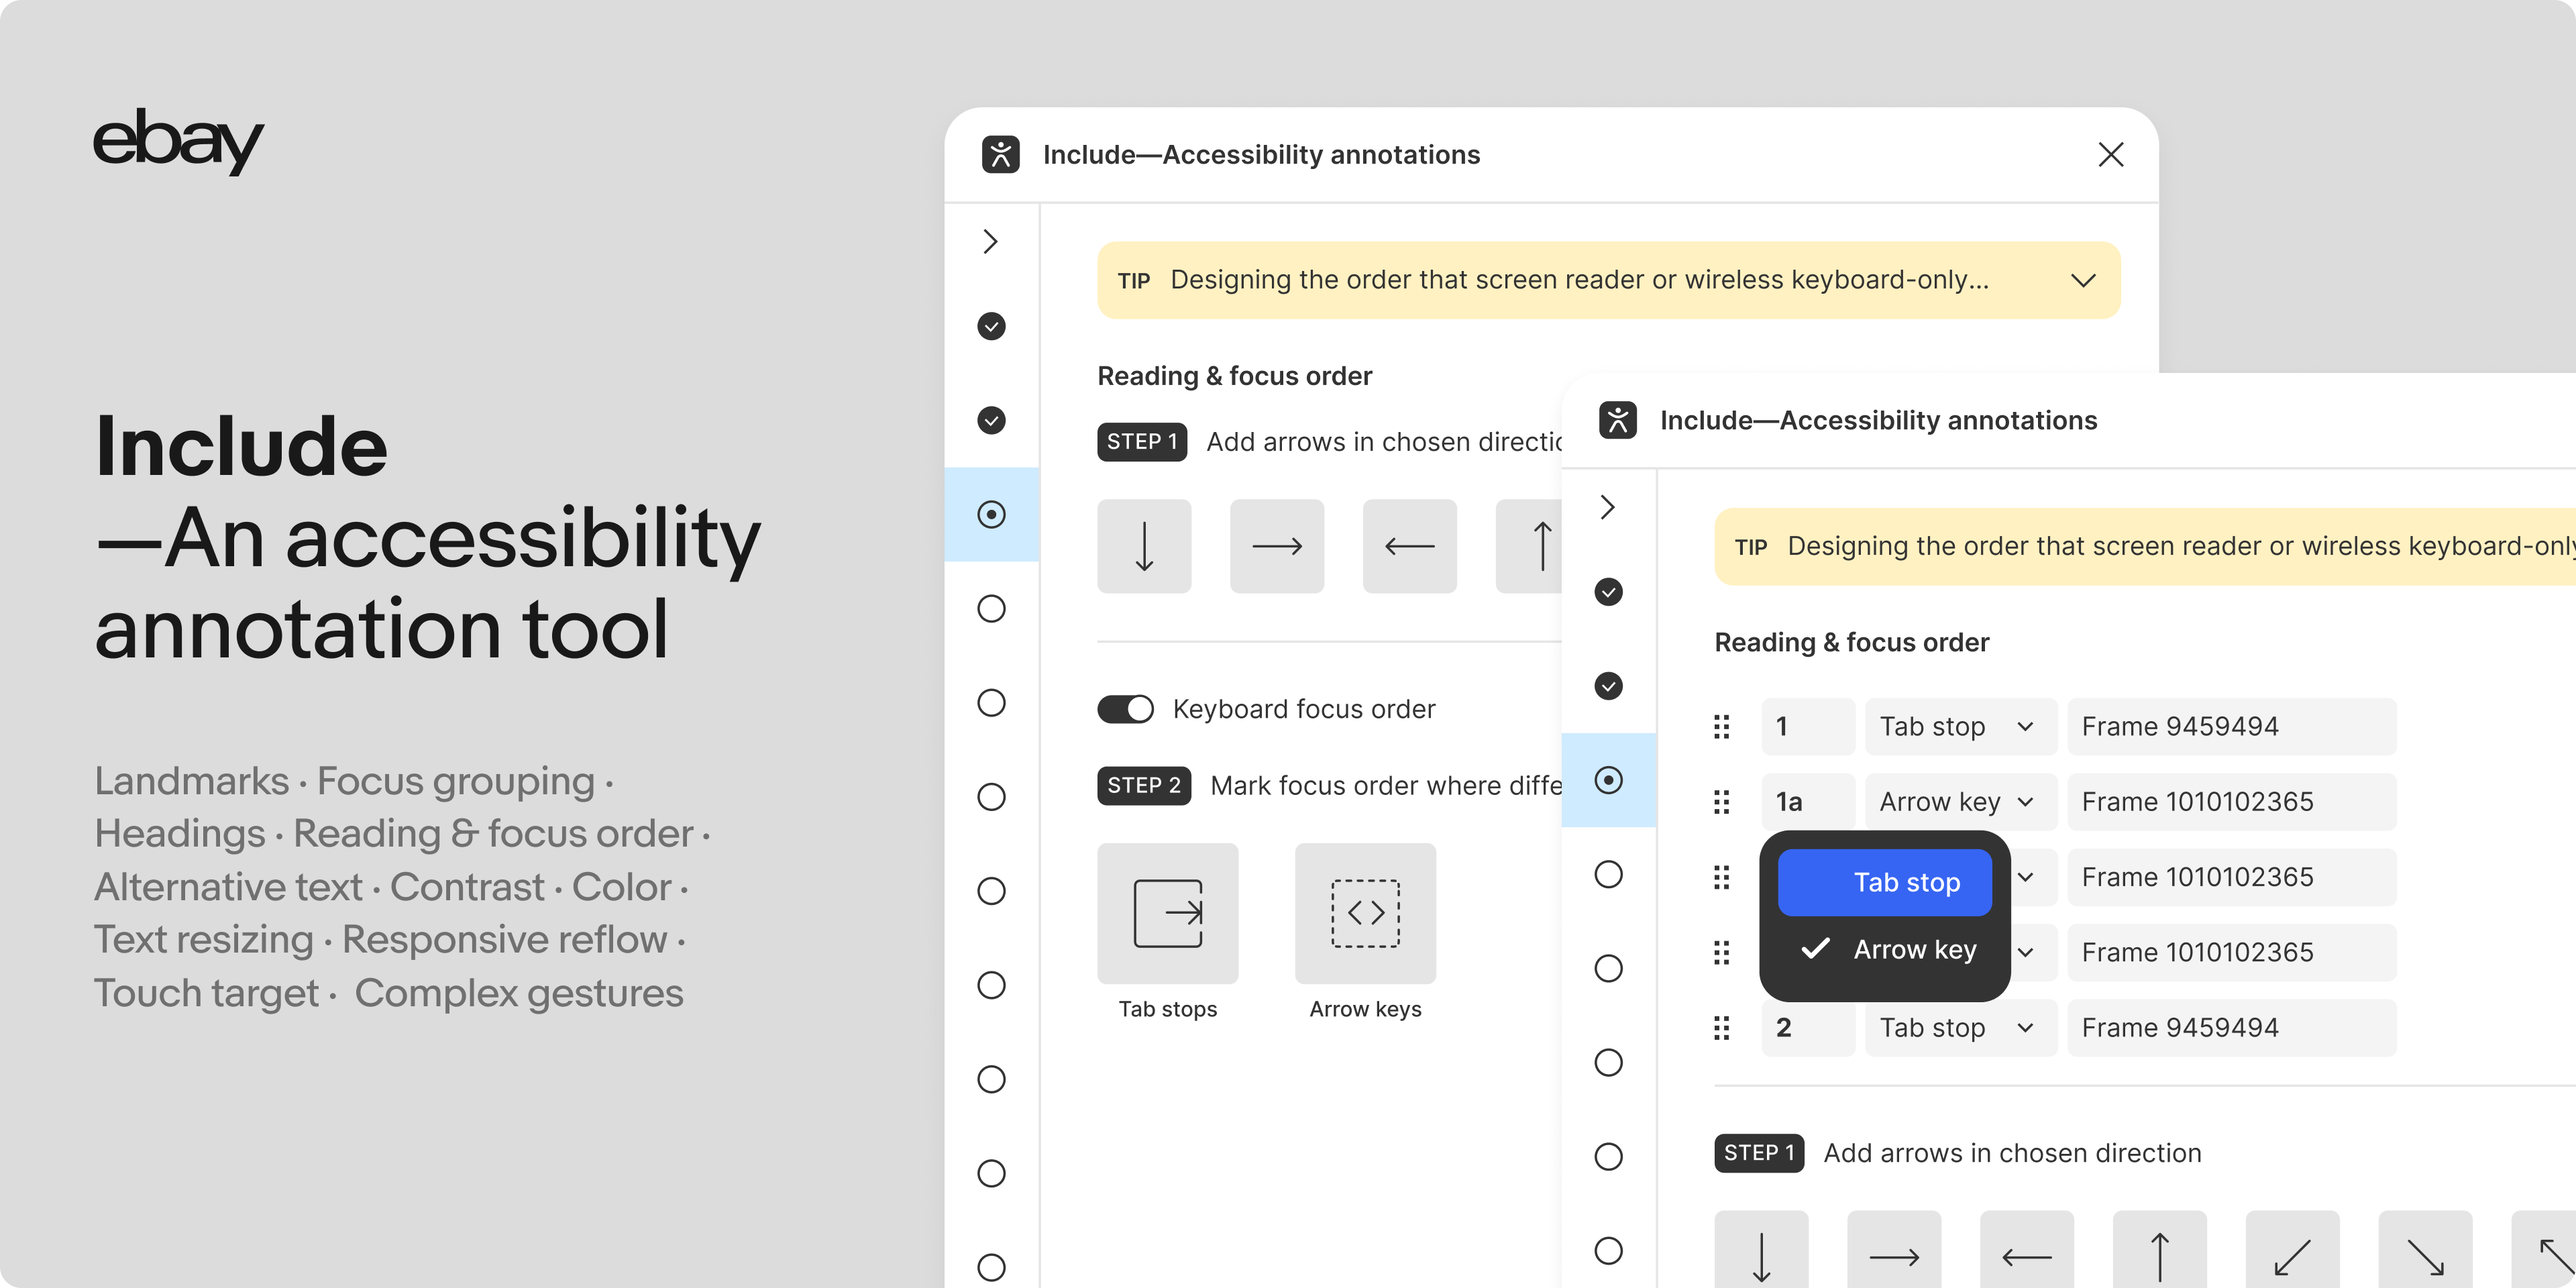
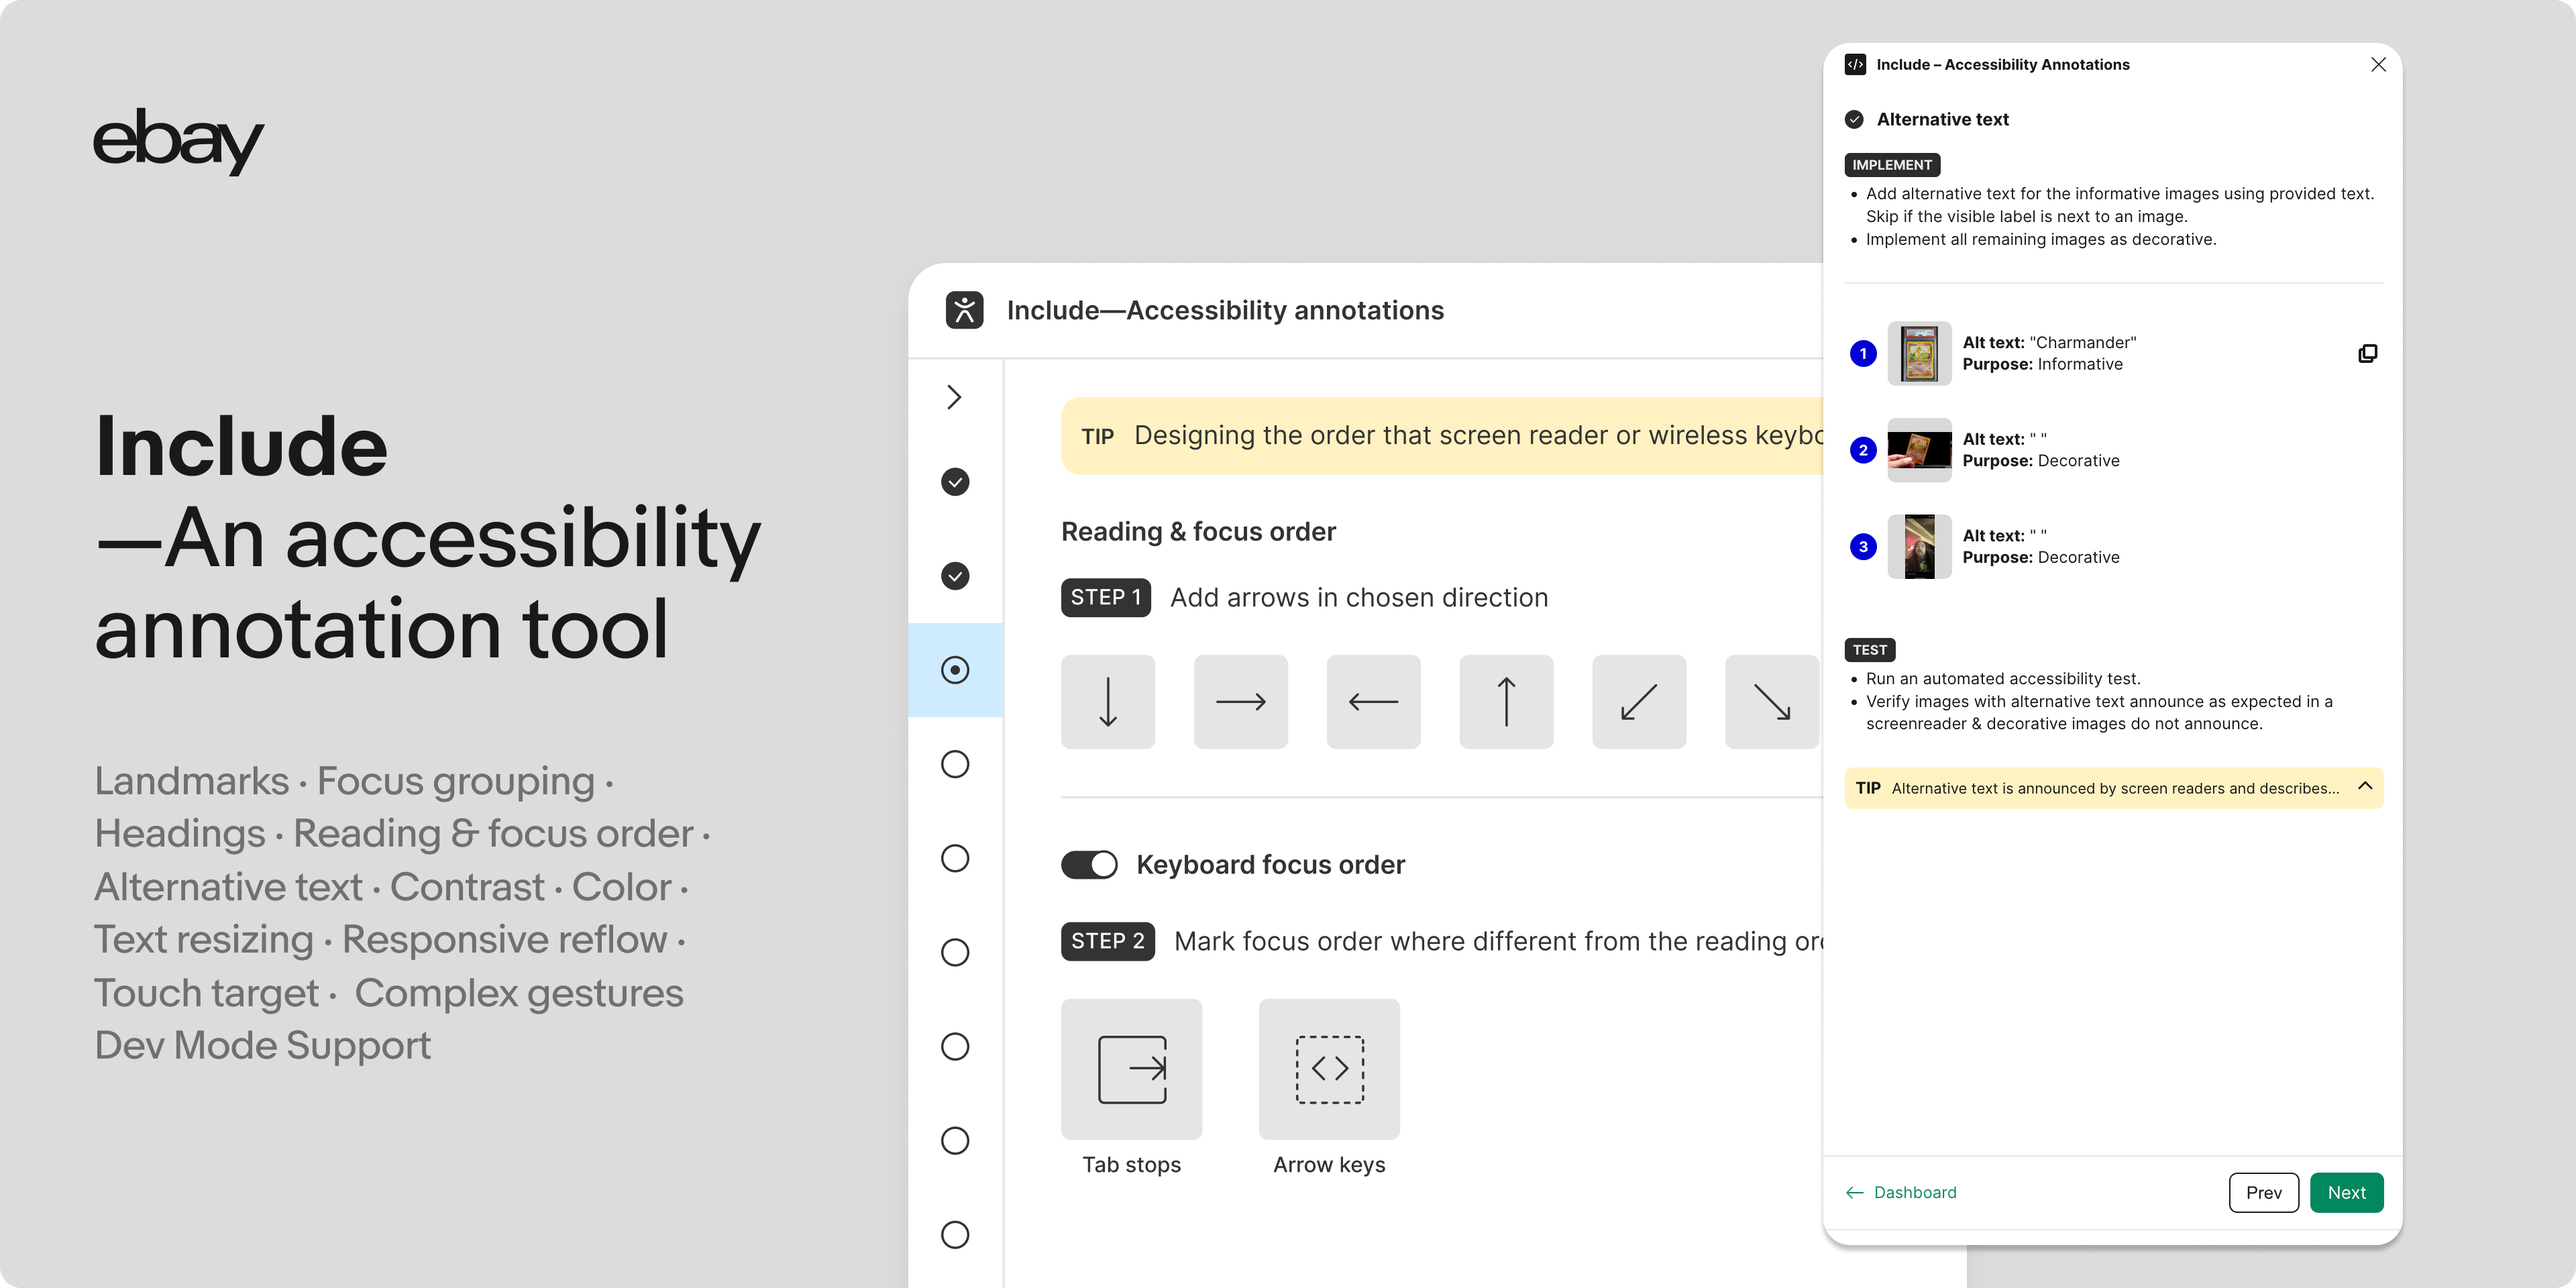
release v17 ready

diff --git a/README.md b/README.md
@@ -13,9 +13,39 @@ an accessibility annotation Figma plugin
 
 <img alt="plugin version 17" src="previews/v17/include_banner.png" />
 
-The eBay Include accessibility annotation Figma plugin is a tool to make annotating for accessibility (a11y) easier — easier for designers to spec and easier for developers to understand what is required. Version 17 adds a read-only inspect experience in Figma Dev Mode so developers can review existing annotations without changing the design file.
+The eBay Include accessibility annotation Figma plugin is a tool to make annotating for accessibility (a11y) easier — easier for designers to spec and easier for developers to understand what is required.
 
 The plugin was developed by members of the accessibility and design teams at eBay and is released for public use on Figma. You can view and install the latest version of the plugin [here](https://www.figma.com/community/plugin/1208180794570801545/Include%3A-an-accessibility-annotation-tool).
+
+## What's new in v17
+
+Version 17 adds a read-only inspect experience in Figma Dev Mode so developers can review existing annotations without changing the design file.
+
+Features:
+
+- added a read-only Dev Mode inspect experience, with a dashboard of annotated pages and previous/next step navigation
+- added implement and test guidance from existing annotations (web and native); Color blindness is skipped in inspect
+- added developer-focused step tips while keeping Design Mode playbook links
+- scans other Figma pages in Dev Mode so annotations are not limited to the current page
+- dashboard grid reflows as the Dev Mode panel is resized
+
+Bug fixes:
+
+- guard document writes in read-only Dev Mode (annotation key migration, designer checks, layer visibility) so opening inspect no longer throws
+- fix contrast sampling using the wrong corner of a text node
+- check native touch targets against the native minimum size
+- fix collapsed step tip layout
+- fix Dev Mode step footer scrolling out of view
+- clicking a focus group in Dev Mode now zooms to and selects the Group Area layer
+- tightened inspect copy across annotation steps
+
+Open source code:
+
+- updated manifest to use `editorType: ["figma", "dev"]` with `capabilities: ["inspect"]`
+- centralized plugin constants (sizes, WCAG values, loading timeouts)
+- added an ErrorBoundary fallback
+- ignore non-plugin iframe window messages so listeners do not crash
+- added prettier format scripts and a combined `lint:all` command
 
 ## Roadmap
 
